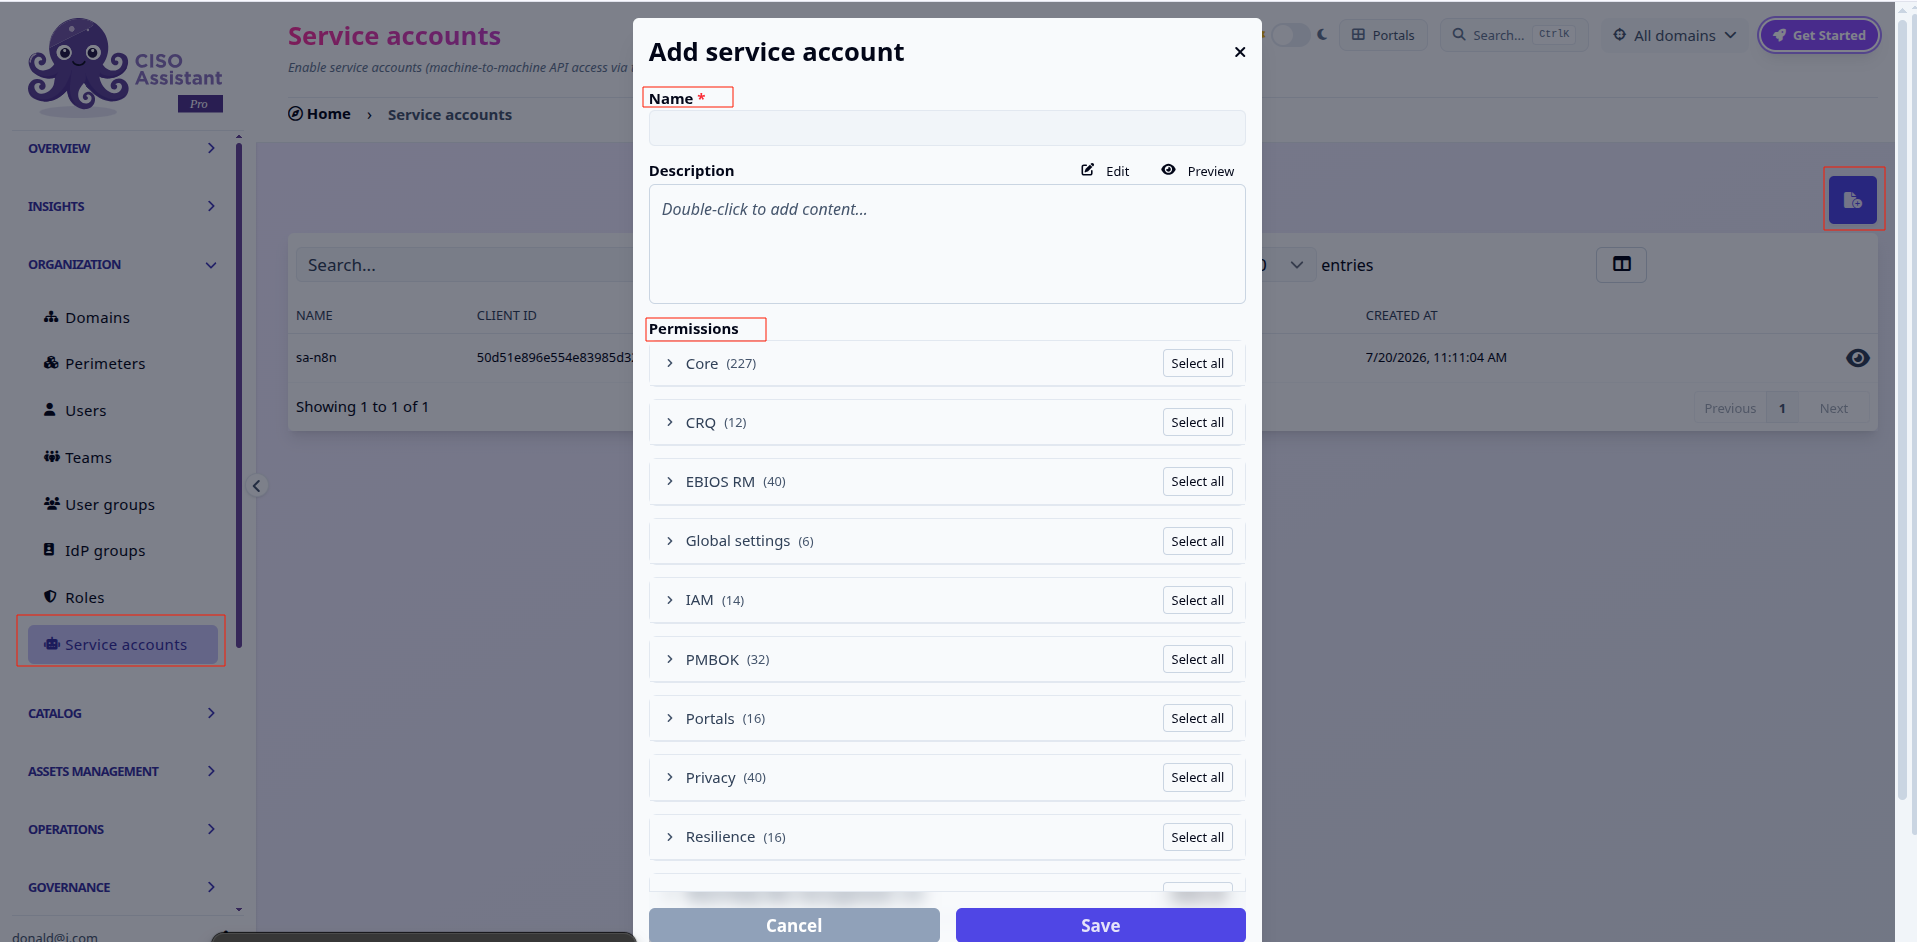
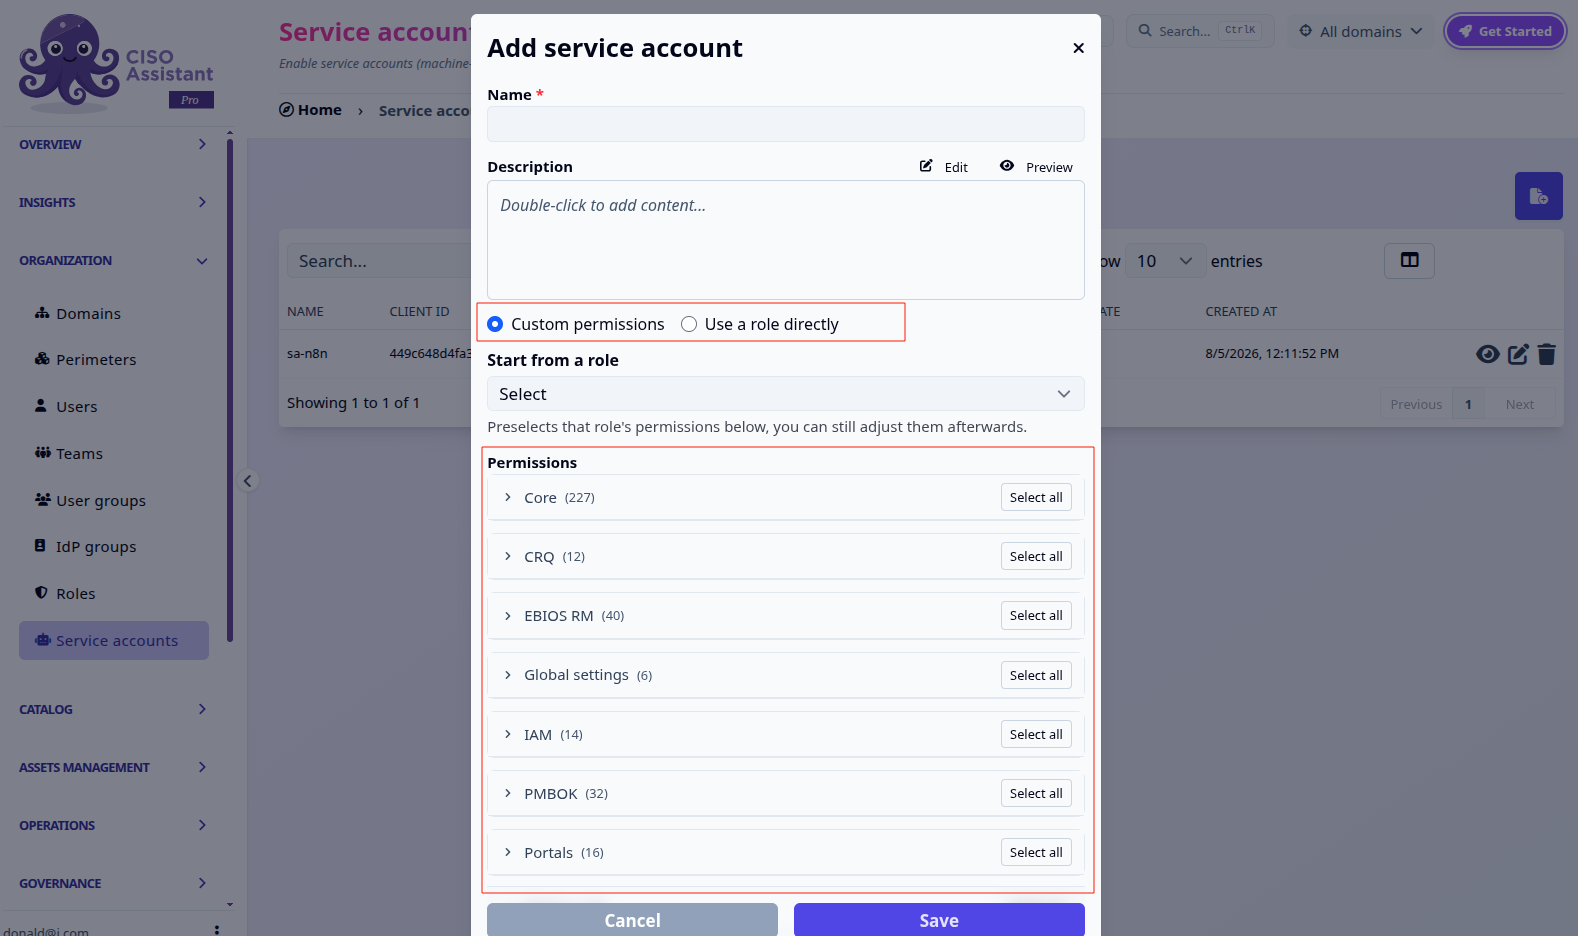
docs

diff --git a/product-docs/integrations/service-accounts.md b/product-docs/integrations/service-accounts.md
@@ -4,7 +4,7 @@ description: Machine-to-machine API access for CISO Assistant, via OAuth2 client
 
 # Service accounts
 
-A **service account** is an identity for a script, CI pipeline, or external system to call the CISO Assistant API on its own — no human, no session, no interactive login. It authenticates using the OAuth2 **client credentials** grant, fully delegated to the OIDC identity provider built into CISO Assistant.
+A **service account** is an identity for a script, CI pipeline, or external system to call the CISO Assistant API on its own, no human, no session, no interactive login. It authenticates using the OAuth2 **client credentials** grant, fully delegated to the OIDC identity provider built into CISO Assistant.
 
 {% hint style="info" %}
 This is a **PRO** feature. It is gated by the `Service accounts` feature flag (see [feature-flags.md](../configuration/settings/feature-flags.md "mention")). While the flag is off, the **Service accounts** menu stays hidden and its API is unreachable.
@@ -12,19 +12,26 @@ This is a **PRO** feature. It is gated by the `Service accounts` feature flag (s
 
 ### Creating a service account
 
-Service accounts live under **Organization > Service accounts** in the sidebar, right next to Roles. Creating one asks for a **name**, an optional description, the **permissions** to grant — the same grouped picker used by [custom roles](../configuration/organization/custom-roles.md), by app and model — and the **domains** to scope it to.
+Service accounts live under **Organization > Service accounts** in the sidebar, right next to Roles. Creating one asks for a **name**, an optional description, how it gets its **permissions**, and the **domains** to scope it to.
 
-<figure><img src="../.gitbook/assets/service-accounts-create-permissions.png" alt=""><figcaption><p>Name and grouped permission picker, shared with custom roles.</p></figcaption></figure>
+There are two ways to grant permissions:
 
-Scrolling down, pick the **domains** (perimeter folders) the account can act on, with an option to extend the grant to their sub-domains automatically.
+* **Custom permissions**, hand-pick permissions from the same grouped picker used by [custom roles](../configuration/organization/custom-roles.md), by app and model. The **Start from a role** dropdown preselects a built-in role's permissions as a starting point, which you can still adjust afterwards.
+* **Use a role directly**, link the account to a built-in role. Its permissions then track that role live: if the role changes later, the service account's access changes with it.
 
-<figure><img src="../.gitbook/assets/service-accounts-create-domains.png" alt=""><figcaption><p>Domain scope and the "apply to sub-domains" option.</p></figcaption></figure>
+<figure><img src="../.gitbook/assets/service-accounts-create-permissions.png" alt=""><figcaption><p>Custom permissions, with the "start from a role" preset and the grouped picker.</p></figcaption></figure>
+
+Scrolling down, pick the **domains** (perimeter folders) the account can act on, with an option to extend the grant to their sub-domains automatically, and an optional **expiry date** after which the account is disabled.
+
+<figure><img src="../.gitbook/assets/service-accounts-create-domains.png" alt=""><figcaption><p>Domain scope, "apply to sub-domains", and expiry date.</p></figcaption></figure>
 
 {% hint style="warning" %}
-On save, the **Client ID** and **Client secret** are shown once. <mark style="color:orange;">Copy the secret now — it cannot be retrieved again.</mark> If you lose it, use **Rotate secret** to issue a new one.
+On save, the **Client ID** and **Client secret** are shown once. <mark style="color:orange;">Copy the secret now, it cannot be retrieved again.</mark> If you lose it, use **Rotate secret** to issue a new one.
 {% endhint %}
 
 <figure><img src="../.gitbook/assets/service-accounts-secret.png" alt=""><figcaption><p>The client secret is shown only once, right after creation.</p></figcaption></figure>
+
+Afterwards, the list and detail views show a **secret preview** (a masked prefix, e.g. `ca_sa.e*k········`) so you can recognize which secret is in use without ever re-exposing it in full.
 
 ### Using it: OAuth2 client credentials
 
@@ -43,12 +50,16 @@ curl https://<your-instance>/api/users/ \
 
 ### Managing a service account
 
-A service account's detail page shows its Client ID, scope, and granted permissions, alongside the actions to manage its lifecycle:
+A service account's detail page shows its Client ID, secret preview, scope, and granted permissions, alongside the actions to manage its lifecycle:
 
 <figure><img src="../.gitbook/assets/service-accounts-detail.png" alt=""><figcaption><p>Edit, Deactivate, Rotate secret, Delete and Audit trail.</p></figcaption></figure>
 
-* **Deactivate** immediately revokes any outstanding access token and blocks new ones from being issued — without deleting the account. **Activate** restores it.
-* **Rotate secret** invalidates the current secret and issues a new one on the spot, keeping the same Client ID. Use it for routine credential rotation or if a secret leaks.
+* **Edit** lets you change permissions, domains, and expiry date, including switching between **custom permissions** and **use a role directly** at any time. Switching to a role links live to that role's permissions; switching to custom detaches it into its own dedicated set, seeded with whatever permissions it had.
+* **Deactivate** immediately revokes any outstanding access token and blocks new ones from being issued, without deleting the account. **Activate** restores it.
+* **Rotate secret** invalidates the current secret and issues a new one on the spot, keeping the same Client ID. An optional **grace period** (in days, capped at one month) keeps the old secret working alongside the new one, so integrations can be updated without downtime.
+
+<figure><img src="../.gitbook/assets/service-accounts-rotate-secret.png" alt=""><figcaption><p>Rotate secret, with an optional grace period for the old secret.</p></figcaption></figure>
+
 * **Delete** removes the underlying OAuth2 client entirely; its Client ID stops being valid.
 
-Unlike a [PAT](pat.md), a service account isn't tied to a human user and doesn't expire on a fixed schedule — it lives until you deactivate or delete it, which makes it the right choice for long-running integrations rather than personal, short-lived API access.
+Unlike a [PAT](pat.md), a service account isn't tied to a human user and doesn't expire on a fixed schedule, it lives until you deactivate or delete it, which makes it the right choice for long-running integrations rather than personal, short-lived API access.
